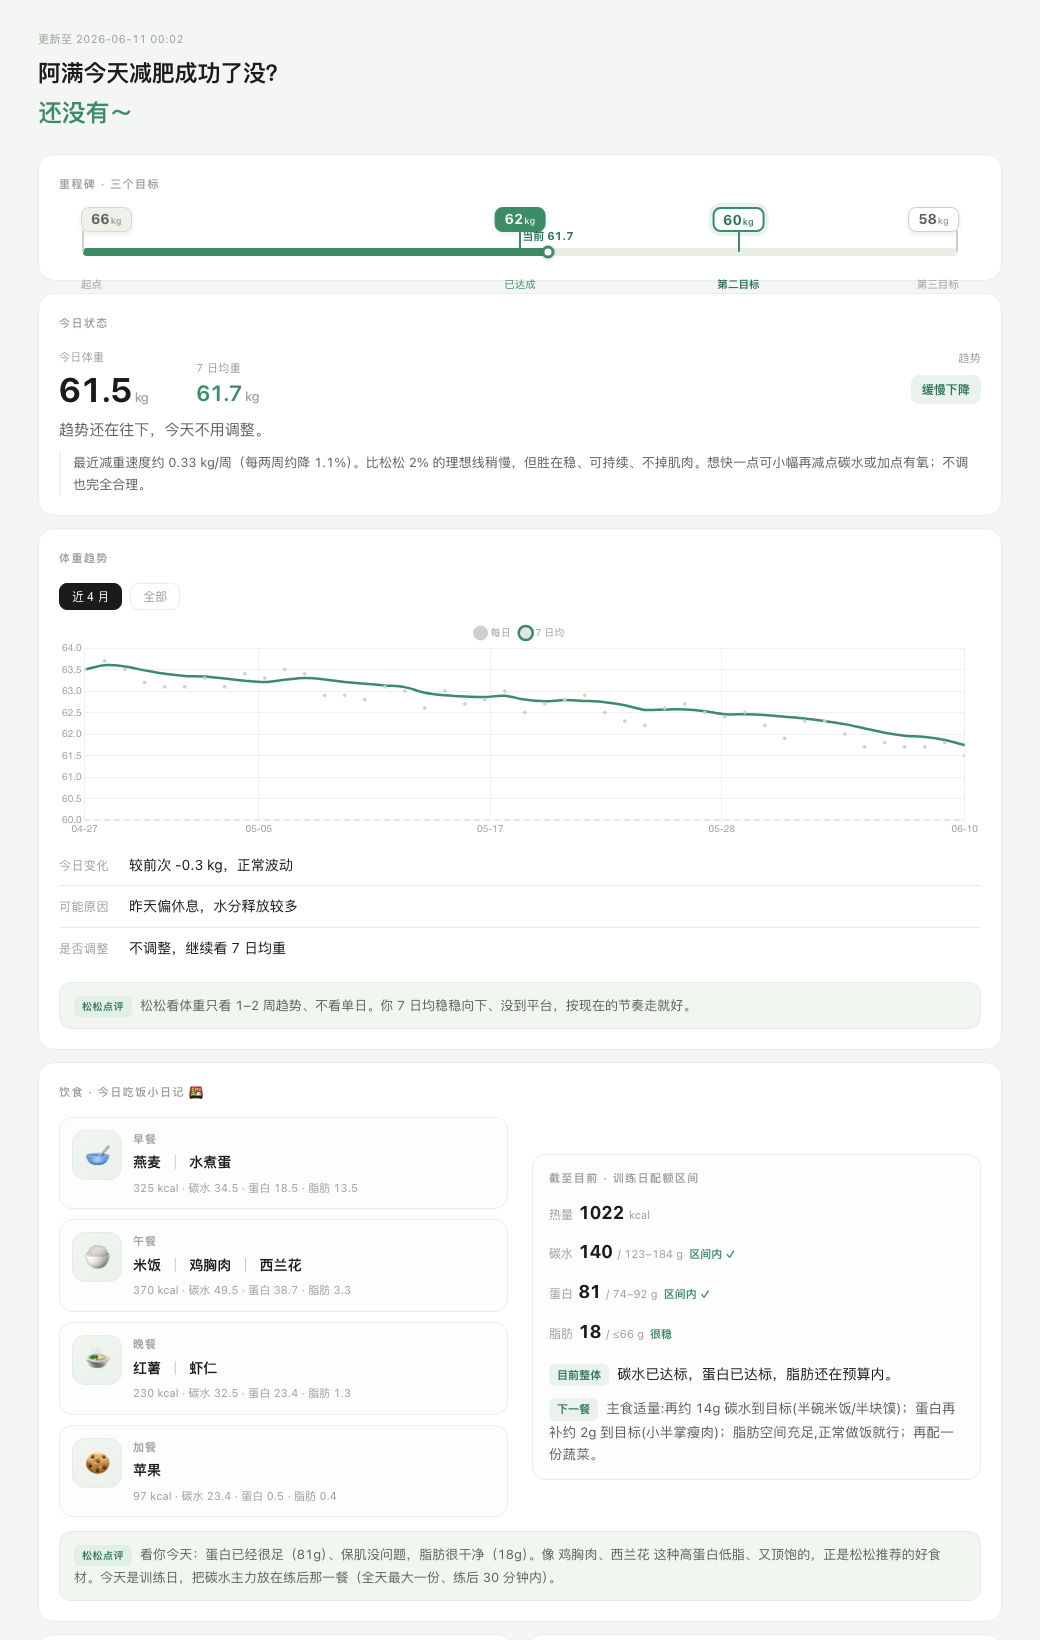
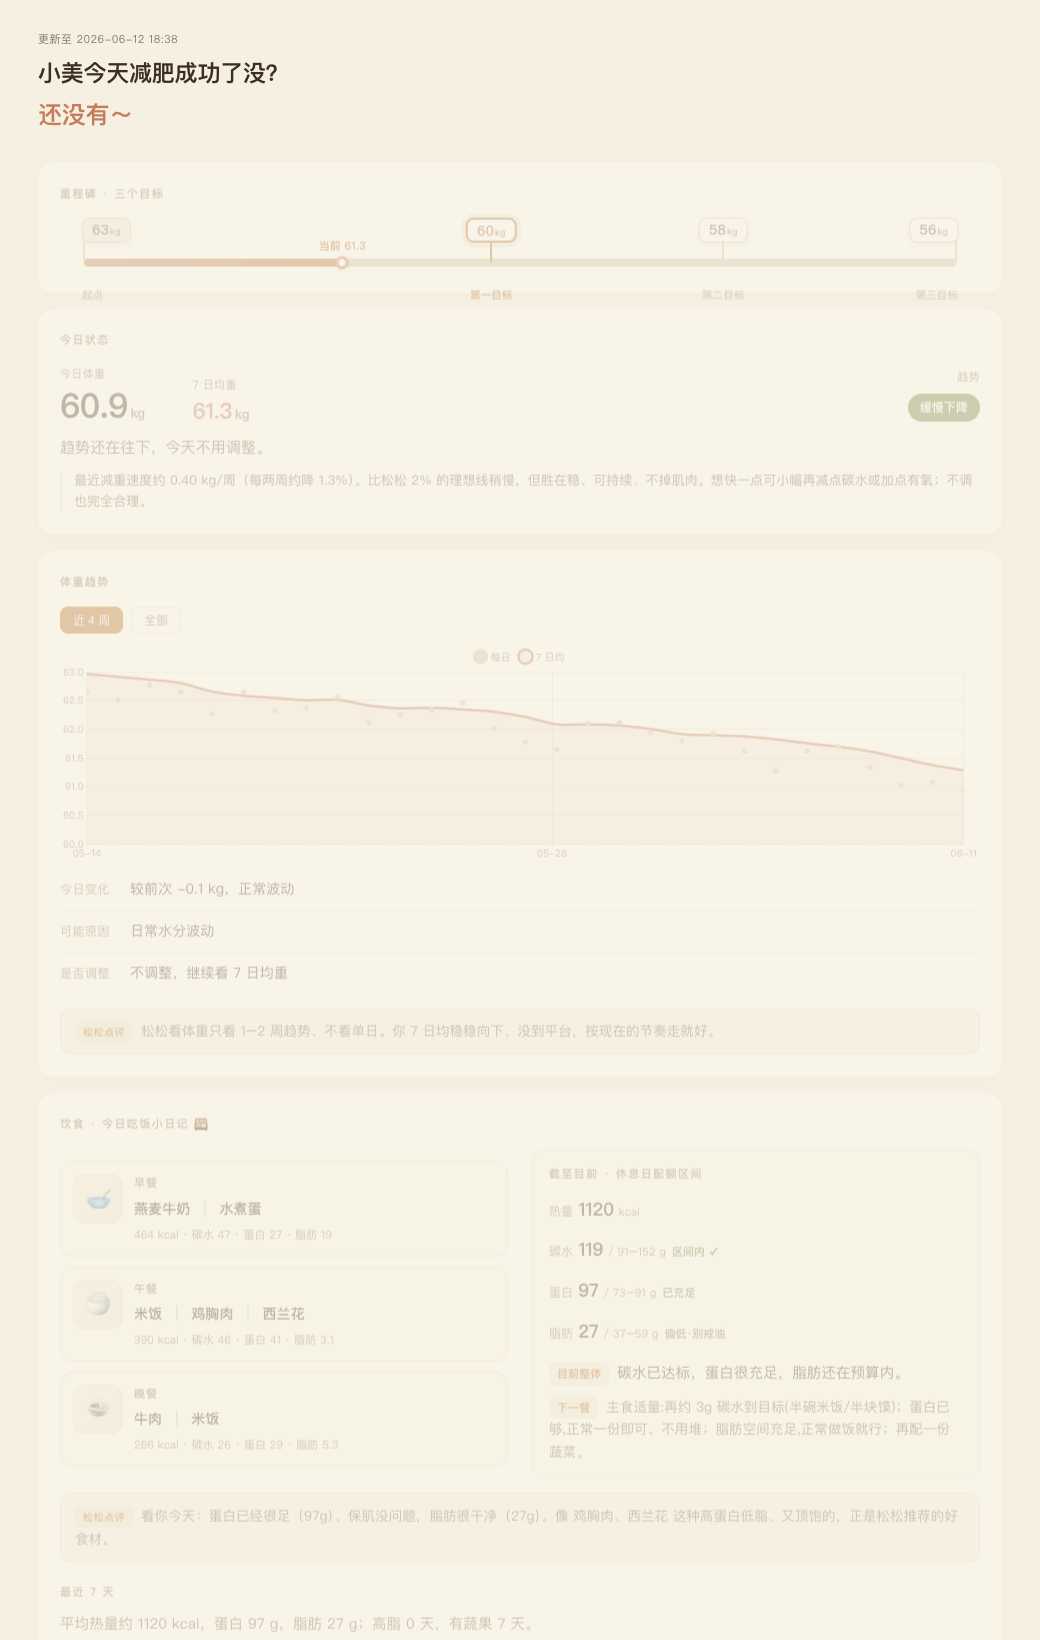
v1.4: 看板换装暖陪跑风(设计令牌/图表层级/reduced-motion/aria)

Changed region(s): [[0.0308, 0.0311, 0.9846, 0.9951]]

diff --git a/scripts/build_dashboard.py b/scripts/build_dashboard.py
@@ -273,7 +273,9 @@ def build_all():
         "weightDaily": [{"x": ms(d), "y": w} for (d, w, _, _) in series],
         "ma7": [{"x": ms(d), "y": ma7_at(series, d)} for (d, w, _, _) in series],
         "target": mstone["next_goal"],
-        "minx": ms(series[0][0]), "maxx": ms(L), "defaultLo": max(ms(series[0][0]), ms(L - datetime.timedelta(days=120))),
+        "minx": ms(series[0][0]), "maxx": ms(L),
+        "lo4w": max(ms(series[0][0]), ms(L - datetime.timedelta(days=28))),
+        "lo4m": max(ms(series[0][0]), ms(L - datetime.timedelta(days=120))),
         "kcalDaily": diet["kcalDaily"], "kcalAvg": diet["kcalAvg"],
         "proteinDaily": diet["proteinDaily"], "fatDaily": diet["fatDaily"], "showDietChart": diet["show_trend"],
         "bf": body["bf_series"], "fat": body["fat_series"], "lean": body["lean_series"], "showBody": body["has"]}
@@ -738,9 +740,9 @@ def render(D):
     show_trend, show_pattern = di["show_trend"], di["show_pattern"]
 
     # 数据不足时整段隐藏(数据够了自动回来)
-    trend_block = (c_sub("最近 7 天") + "<div class='body-t'>%s</div><div class='cv sm'><canvas id='cKcal'></canvas></div><div class='cv sm'><canvas id='cMacro'></canvas></div>" % esc(di["week_text"])) if show_trend else ""
+    trend_block = (c_sub("最近 7 天") + "<div class='body-t'>%s</div><div class='cv sm'><canvas id='cKcal' role='img' aria-label='最近7天每日热量柱状图与均值线'></canvas></div><div class='cv sm'><canvas id='cMacro' role='img' aria-label='最近7天蛋白与脂肪摄入折线图'></canvas></div>" % esc(di["week_text"])) if show_trend else ""
     pattern_block = (c_sub("最近 30 天") + "<div class='body-t'>%s</div>" % esc(di["pattern_text"])) if show_pattern else ""
-    body_chart = "<div class='cv sm'><canvas id='cBody'></canvas></div>" if bo["has"] else ""
+    body_chart = "<div class='cv sm'><canvas id='cBody' role='img' aria-label='身体成分趋势:瘦体重(虚线)与脂肪量(实线)双轴折线图'></canvas></div>" if bo["has"] else ""
 
     # —— 用统一组件拼装整页 ——
     head = "<div class='head'><div class='upd'>更新至 %s</div><h1>%s</h1><div class='answer'>%s</div></div>" % (
@@ -754,7 +756,7 @@ def render(D):
                  "<div class='row'><span class='k'>可能原因</span><span>%s</span></div>"
                  "<div class='row'><span class='k'>是否调整</span><span>%s</span></div></div>") % (
                  esc(tr["chg"]), esc(tr_cause), esc(tr["adj"]))
-    c_weight = c_card("<div class='range' id='range'></div><div class='cv'><canvas id='cWeight'></canvas></div>%s%s" % (
+    c_weight = c_card("<div class='range' id='range'></div><div class='cv'><canvas id='cWeight' role='img' aria-label='体重趋势:单日散点(弱化)与7日均线(主线)'></canvas></div>%s%s" % (
         weight_kv, c_coach(tr["coach"])), "体重趋势")
     c_diet = c_card("<div class='diet-grid'><div class='diet-left'>%s</div><div class='diet-right'>%s</div></div>%s%s%s" % (
         d_left, d_right, c_coach(d_coach), trend_block, pattern_block), "饮食 · 今日吃饭小日记 🍱")
@@ -782,24 +784,25 @@ def celebrate_html(c):
 
 CELEBRATE_TMPL = r"""
 <div id="celebrate" style="position:fixed;inset:0;z-index:9999;
- background:radial-gradient(120% 90% at 50% 18%, rgba(18,33,24,.92), rgba(8,12,10,.95));">
+ background:radial-gradient(120% 90% at 50% 18%, rgba(38,27,18,.92), rgba(14,10,7,.95));">
 <canvas id="fwc" style="position:fixed;inset:0;display:block;"></canvas>
 <div onclick="cbHide()" style="position:fixed;right:18px;top:16px;z-index:2;width:38px;height:38px;border-radius:50%;
  cursor:pointer;background:rgba(255,255,255,.14);color:#fff;border:1px solid rgba(255,255,255,.2);font-size:20px;line-height:36px;text-align:center;">✕</div>
 <div class="cbcard">
  <div style="font-size:54px;filter:drop-shadow(0 4px 12px rgba(0,0,0,.4))">🎉</div>
- <div style="font-size:12px;letter-spacing:.35em;color:#8FE0B6;font-weight:700;margin-top:12px;">里程碑达成</div>
- <div style="font-size:29px;font-weight:800;margin:10px 0 2px;">恭喜__NAME__！__VERB__ <span style="color:#7CE0AA">__GOAL__ kg</span></div>
- <div style="font-size:15px;color:#D7E5DC;line-height:1.75;margin-top:8px;">__LINE__</div>
+ <div style="font-size:12px;letter-spacing:.35em;color:#F4C690;font-weight:700;margin-top:12px;">里程碑达成</div>
+ <div style="font-size:29px;font-weight:800;margin:10px 0 2px;">恭喜__NAME__！__VERB__ <span style="color:#F0B27A">__GOAL__ kg</span></div>
+ <div style="font-size:15px;color:#EFE2D2;line-height:1.75;margin-top:8px;">__LINE__</div>
 </div>
 <div style="position:fixed;left:0;right:0;bottom:16px;text-align:center;color:rgba(255,255,255,.4);font-size:12px;">点 ✕ / 空白处 / 按 Esc 关闭，回到看板</div>
 </div>
 <style>
 .cbcard{position:fixed;left:50%;top:50%;transform:translate(-50%,-50%) scale(.85);opacity:0;text-align:center;color:#fff;
- background:rgba(22,33,26,.5);backdrop-filter:blur(10px);-webkit-backdrop-filter:blur(10px);border:1px solid rgba(255,255,255,.16);
+ background:rgba(40,29,20,.55);backdrop-filter:blur(10px);-webkit-backdrop-filter:blur(10px);border:1px solid rgba(255,255,255,.16);
  border-radius:26px;padding:34px 40px;box-shadow:0 24px 70px rgba(0,0,0,.45);max-width:88vw;
  animation:cbpop .7s cubic-bezier(.2,.9,.2,1.1) .2s forwards;}
 @keyframes cbpop{to{transform:translate(-50%,-50%) scale(1);opacity:1;}}
+@media(prefers-reduced-motion:reduce){.cbcard{animation:none;transform:translate(-50%,-50%);opacity:1;}}
 </style>
 <script>
 (function(){
@@ -818,7 +821,8 @@ CELEBRATE_TMPL = r"""
  window.cbHide=function(){ov.style.display='none';if(raf){cancelAnimationFrame(raf);raf=null;}};
  ov.addEventListener('click',function(e){if(e.target===ov||e.target===cv)cbHide();});
  addEventListener('keydown',function(e){if(e.key==='Escape')cbHide();});
- frame();go();
+ // 尊重系统"减弱动态效果":不放烟花,只静态展示祝贺卡
+ if(!matchMedia('(prefers-reduced-motion: reduce)').matches){frame();go();}
 })();
 </script>"""
 
@@ -827,15 +831,18 @@ TEMPLATE = r"""<!doctype html><html lang="zh-CN"><head><meta charset="utf-8">
 <script src="./assets/chart.umd.min.js"></script>
 <style>
 :root{
- /* 色板 */
- --bg:#F4F6F3;--card:#FFFFFF;--ink:#1A1C19;--t2:#5C6159;--t3:#9AA09A;--line:#EAEDE8;
- --accent:#3C8C66;--accent-d:#2E7355;--soft:#E9F2EC;--warn:#C8824E;
+ /* 色板 · 暖陪跑风(Nature Distilled,见 docs/DESIGN-SYSTEM.md) */
+ --bg:#F5F0E1;--card:#FFFCF5;--ink:#3D2E22;--t2:#6E5C4B;--t3:#8A7866;--line:#EDE3D0;
+ --accent:#C67B5C;--accent-d:#B5651D;--soft:#F3E8D8;--warn:#B5651D;
+ --pos:#6B7B3C;--pos-d:#57652C;--pos-soft:#EDF0DC;          /* 正向反馈:掉秤/达标/训练日 */
+ --sand:#D4C4A8;--praise:#FAE8D4;
+ --shadow:0 2px 12px rgba(91,64,38,.08);
  /* 状态色:日历格子 & 活动 chip —— 全部集中一处,杜绝撞色 */
- --cell:#FAFBFA;--cell-today:#FFFFFF;
- --chip-train:var(--soft);--chip-train-t:var(--accent-d);
+ --cell:#FBF6EA;--cell-today:#FFFCF5;
+ --chip-train:var(--pos-soft);--chip-train-t:var(--pos-d);
  --chip-cardio:#F3EBDF;--chip-cardio-t:#9A6E3C;
- --chip-rest:#EEF0ED;--chip-rest-t:var(--t3);
- --chip-other:#EDEFEC;--chip-other-t:var(--t2);
+ --chip-rest:#F1EADB;--chip-rest-t:var(--t3);
+ --chip-other:#EFE8D8;--chip-other-t:var(--t2);
  /* 间距刻度 / 圆角(组件统一引用) */
  --s2:8px;--s3:12px;--s4:16px;--s5:20px;--s6:24px;
  --r:16px;--r-sm:12px;
@@ -843,36 +850,38 @@ TEMPLATE = r"""<!doctype html><html lang="zh-CN"><head><meta charset="utf-8">
 *{box-sizing:border-box}
 html{-webkit-font-smoothing:antialiased;text-rendering:optimizeLegibility;}
 body{margin:0;background:var(--bg);color:var(--ink);
- font:14px/1.6 -apple-system,BlinkMacSystemFont,"SF Pro SC","SF Pro Text","PingFang SC","Microsoft YaHei",sans-serif;
+ font:15px/1.65 'Nunito Sans','PingFang SC','Hiragino Sans GB','Microsoft YaHei',sans-serif;
  font-variant-numeric:tabular-nums;font-feature-settings:"tnum" 1;letter-spacing:.005em;}
+h1,.stat .v,.head .answer,.sf-item b,.node .flag{font-family:'Varela Round','Nunito Sans','PingFang SC','Hiragino Sans GB',sans-serif;}
 .wrap{max-width:540px;margin:0 auto;padding:30px 18px 80px;}
 .head{margin-bottom:22px;}
 .head h1{font-size:19px;font-weight:650;letter-spacing:-.01em;margin:0 0 3px;}
 .head .sb{color:var(--t3);font-size:12px;} .head .up{color:var(--t3);font-size:11px;margin-top:3px;}
-.card{background:var(--card);border:1px solid var(--line);border-radius:var(--r);padding:20px;margin-bottom:12px;
+.card{background:var(--card);border-radius:var(--r);box-shadow:var(--shadow);padding:22px;margin-bottom:16px;
  animation:rise .5s cubic-bezier(.2,.7,.2,1) both;}
 @keyframes rise{from{opacity:0;transform:translateY(8px)}to{opacity:1}}
+@media(prefers-reduced-motion:reduce){.card{animation:none}}
 .head .upd{font-size:11px;color:var(--t3);letter-spacing:.04em;margin-bottom:7px;}
 .head h1{font-size:23px;font-weight:700;letter-spacing:-.01em;margin:0;}
 .head .answer{font-size:24px;font-weight:700;color:var(--accent);margin-top:2px;letter-spacing:-.01em;}
 .msbar{position:relative;margin:56px 24px 4px;}
-.track2{position:relative;height:8px;background:#E9EDE6;border-radius:8px;}
-.fill2{position:absolute;left:0;top:0;height:100%;background:var(--accent);border-radius:8px;}
-.here{position:absolute;top:4px;width:13px;height:13px;border-radius:50%;background:#fff;border:3px solid var(--accent);box-shadow:0 1px 4px rgba(0,0,0,.18);transform:translate(-50%,-50%);z-index:4;}
+.track2{position:relative;height:8px;background:var(--sand);border-radius:8px;}
+.fill2{position:absolute;left:0;top:0;height:100%;background:linear-gradient(90deg,var(--accent),var(--accent-d));border-radius:8px;}
+.here{position:absolute;top:4px;width:13px;height:13px;border-radius:50%;background:#fff;border:3px solid var(--accent);box-shadow:0 1px 4px rgba(91,64,38,.25);transform:translate(-50%,-50%);z-index:4;}
 .here b{position:absolute;bottom:12px;left:50%;transform:translateX(-50%);font-size:11px;font-weight:700;color:var(--accent-d);white-space:nowrap;}
 .node{position:absolute;top:4px;z-index:2;}
-.node .pole{position:absolute;left:0;top:-22px;width:2px;height:22px;background:#C9D0C7;transform:translateX(-50%);border-radius:2px;}
+.node .pole{position:absolute;left:0;top:-22px;width:2px;height:22px;background:var(--sand);transform:translateX(-50%);border-radius:2px;}
 .node .flag{position:absolute;left:0;top:-45px;transform:translateX(-50%);min-width:34px;height:25px;padding:0 9px;
- display:flex;align-items:baseline;justify-content:center;gap:1px;border-radius:8px;background:#fff;border:1.5px solid #C9D0C7;
- color:var(--t2);font-size:14px;font-weight:700;box-shadow:0 2px 5px rgba(40,46,30,.10);}
+ display:flex;align-items:baseline;justify-content:center;gap:1px;border-radius:8px;background:#fff;border:1.5px solid var(--sand);
+ color:var(--t2);font-size:14px;font-weight:700;box-shadow:0 2px 5px rgba(91,64,38,.10);}
 .node .flag i{font-style:normal;font-size:9px;font-weight:600;color:var(--t3);}
 .node .nl{position:absolute;top:24px;left:0;transform:translateX(-50%);font-size:10.5px;color:var(--t3);white-space:nowrap;}
-.node.done .flag{background:var(--accent);border-color:var(--accent);color:#fff;} .node.done .flag i{color:#dbe7df;}
-.node.done .pole{background:var(--accent);} .node.done .nl{color:var(--accent);}
-.node.now .flag{border-color:var(--accent);border-width:2px;color:var(--accent-d);box-shadow:0 0 0 4px var(--soft),0 2px 5px rgba(40,46,30,.10);}
-.node.now .flag i{color:var(--accent);} .node.now .pole{background:var(--accent);} .node.now .nl{color:var(--accent-d);font-weight:700;}
-.node.start .flag{background:#EEF0EA;border-color:#D6DBD2;color:var(--t2);} .node.start .flag i{color:var(--t3);}
-.node.start .pole{background:#CCD2C9;} .node.start .nl{color:var(--t3);}
+.node.done .flag{background:var(--pos);border-color:var(--pos);color:#fff;} .node.done .flag i{color:#E4E9D2;}
+.node.done .pole{background:var(--pos);} .node.done .nl{color:var(--pos-d);}
+.node.now .flag{border-color:var(--accent-d);border-width:2px;color:var(--accent-d);box-shadow:0 0 0 4px var(--soft),0 2px 5px rgba(91,64,38,.10);}
+.node.now .flag i{color:var(--accent-d);} .node.now .pole{background:var(--accent-d);} .node.now .nl{color:var(--accent-d);font-weight:700;}
+.node.start .flag{background:#F1EADB;border-color:var(--sand);color:var(--t2);} .node.start .flag i{color:var(--t3);}
+.node.start .pole{background:var(--sand);} .node.start .nl{color:var(--t3);}
 /* 首尾节点贴边对齐，避免旗子/文字飘到卡片外 */
 .node.start .flag,.node.start .nl{transform:translateX(0);left:-2px;}
 .node.end .flag,.node.end .nl{transform:translateX(-100%);left:2px;}
@@ -900,7 +909,7 @@ body{margin:0;background:var(--bg);color:var(--ink);
 .stat .v .u{font-size:13px;font-weight:500;color:var(--t3);margin-left:3px;}
 .stat.ma .v{font-size:22px;font-weight:600;color:var(--accent);}
 .stat.tr{margin-left:auto;text-align:right;}
-.tag{display:inline-block;background:var(--soft);color:var(--accent-d);border-radius:8px;padding:5px 11px;font-size:12px;font-weight:600;}
+.tag{display:inline-block;background:var(--pos);color:#fff;border-radius:99px;padding:4px 12px;font-size:12px;font-weight:600;}
 .one{font-size:15px;line-height:1.55;color:var(--t2);}
 /* 体重三行 */
 .kv{margin-top:14px;}
@@ -909,17 +918,19 @@ body{margin:0;background:var(--bg);color:var(--ink);
 .kv .k{color:var(--t3);font-size:12px;letter-spacing:.04em;width:56px;flex:none;}
 .cv{position:relative;height:220px;margin:6px 0 2px;} .cv.sm{height:150px;}
 .range{display:flex;gap:8px;margin-bottom:8px;}
-.range button{background:transparent;border:1px solid var(--line);color:var(--t3);border-radius:8px;padding:4px 12px;font-size:12px;cursor:pointer;}
-.range button.on{background:var(--ink);color:#fff;border-color:var(--ink);}
+.range button{background:transparent;border:1px solid var(--line);color:var(--t3);border-radius:8px;padding:4px 12px;font-size:12px;cursor:pointer;
+ transition:border-color .2s ease-out,color .2s ease-out;}
+.range button:hover{border-color:var(--accent);color:var(--accent-d);}
+.range button.on{background:var(--accent-d);color:#fff;border-color:var(--accent-d);}
 .sub{font-size:11px;color:var(--t3);font-weight:600;letter-spacing:.13em;text-transform:uppercase;margin:20px 0 10px;}
 /* 饮食日记 · 2×2 方格 */
 .diet-grid{display:grid;grid-template-columns:1fr 1fr;gap:24px;align-items:center;}
 @media(max-width:600px){.diet-grid{grid-template-columns:1fr;gap:16px;}}
 .diary{display:flex;flex-direction:column;gap:10px;}
-.meal{display:flex;gap:11px;align-items:flex-start;padding:12px;border:1px solid var(--line);border-radius:13px;background:#FCFDFC;}
+.meal{display:flex;gap:11px;align-items:flex-start;padding:12px;border:1px solid var(--line);border-radius:13px;background:#FDF9F0;}
 .mvis{flex:none;}
 .mtile{width:50px;height:50px;border-radius:13px;display:flex;align-items:center;justify-content:center;font-size:25px;
- background:linear-gradient(135deg,#F1F6EF,#E9F1EB);border:1px solid #E4ECE5;}
+ background:linear-gradient(135deg,#F8EFE0,#F3E7D4);border:1px solid #EBDFC9;}
 .mthumb{width:54px;height:54px;border-radius:13px;object-fit:cover;border:1px solid var(--line);
  filter:saturate(1.05) contrast(1.02);display:block;}
 .mbody{min-width:0;flex:1;}
@@ -928,28 +939,28 @@ body{margin:0;background:var(--bg);color:var(--ink);
 .mfi{font-size:14px;font-weight:600;}
 .sep{color:var(--t3);opacity:.55;margin:0 7px;font-weight:400;}
 .mnut{font-size:11px;color:var(--t3);margin-top:5px;}
-.meal.empty{background:#FAFBF9;} .meal.empty .mtile{opacity:.5;} .meal.empty .mbody{opacity:.6;}
+.meal.empty{background:#FBF6EA;} .meal.empty .mtile{opacity:.5;} .meal.empty .mbody{opacity:.6;}
 .mf-empty{font-size:14px;color:var(--t3);}
-.praise-card{background:linear-gradient(135deg,#FFF3DB,#FFE6CB);border:1px solid #F6D5B3;position:relative;overflow:hidden;}
+.praise-card{background:var(--praise);border:1.5px solid var(--accent);position:relative;overflow:hidden;}
 .praise-card .pz-deco{position:absolute;right:8px;top:-6px;font-size:50px;opacity:.22;transform:rotate(8deg);pointer-events:none;}
-.pz-h{position:relative;font-size:11.5px;font-weight:800;letter-spacing:.1em;color:#C2772E;}
-.pz-big{position:relative;font-size:16.5px;line-height:1.62;font-weight:650;color:#7C4A1E;margin-top:10px;}
+.pz-h{position:relative;font-size:11.5px;font-weight:800;letter-spacing:.1em;color:var(--accent-d);}
+.pz-big{position:relative;font-size:17px;line-height:1.62;font-weight:650;color:#6E4226;margin-top:10px;}
 /* 三大营养素达标 */
-.macro{margin-top:16px;border:1px solid var(--line);border-radius:12px;padding:13px 15px;background:#FCFDFC;}
+.macro{margin-top:16px;border:1px solid var(--line);border-radius:12px;padding:13px 15px;background:#FDF9F0;}
 .mttl{font-size:11px;color:var(--t3);letter-spacing:.06em;margin-bottom:9px;}
 .mr{display:grid;grid-template-columns:48px 1fr auto;align-items:baseline;gap:10px;padding:5px 0;}
 .mk{color:var(--t2);font-size:13px;}
 .mv{font-size:16px;font-weight:650;letter-spacing:-.01em;} .mv .sl{font-size:12px;font-weight:400;color:var(--t3);margin-left:5px;}
 .ms{font-size:12px;font-weight:600;justify-self:end;}
-.ms.ok{color:var(--accent);} .ms.low{color:var(--t3);} .ms.warn{color:var(--warn);}
+.ms.ok{color:var(--pos);} .ms.low{color:var(--t3);} .ms.warn{color:var(--warn);}
 .verdict{margin-top:13px;font-size:14.5px;line-height:1.65;color:var(--ink);}
 .advice{margin-top:10px;font-size:13px;line-height:1.6;color:var(--t2);padding-left:12px;border-left:2px solid var(--soft);}
-.note{padding:14px;background:#FAFBFA;border:1px dashed var(--line);border-radius:12px;font-size:12.5px;color:var(--t3);line-height:1.7;}
-.body-t{font-size:14px;line-height:1.7;color:var(--t2);}
-.coach{margin-top:14px;background:#F2F6F1;border:1px solid #E3EDE5;border-radius:12px;padding:11px 14px;font-size:13px;line-height:1.72;color:var(--t2);}
-.coach-tag{display:inline-block;font-size:10px;font-weight:700;color:var(--accent-d);background:#E1EFE6;padding:2px 8px;border-radius:6px;margin-right:8px;letter-spacing:.05em;}
+.note{padding:14px;background:#FBF6EA;border:1px dashed var(--sand);border-radius:12px;font-size:12.5px;color:var(--t3);line-height:1.7;}
+.body-t{font-size:14.5px;line-height:1.7;color:var(--t2);}
+.coach{margin-top:14px;background:#F7F0E3;border:1px solid #ECE0CA;border-radius:12px;padding:11px 14px;font-size:13.5px;line-height:1.72;color:var(--t2);}
+.coach-tag{display:inline-block;font-size:10px;font-weight:700;color:var(--accent-d);background:#F2E3CE;padding:2px 8px;border-radius:6px;margin-right:8px;letter-spacing:.05em;}
 /* 饮食 · 截至目前(横向铺平) */
-.diet-right{padding:14px 16px;background:#FCFDFC;border:1px solid var(--line);border-radius:13px;}
+.diet-right{padding:14px 16px;background:#FDF9F0;border:1px solid var(--line);border-radius:13px;}
 .sf-h{font-size:11px;color:var(--t3);font-weight:600;letter-spacing:.13em;text-transform:uppercase;margin:0 0 12px;}
 .sf-strip{display:flex;flex-direction:column;gap:11px;}
 .sf-item{display:flex;align-items:baseline;gap:5px;}
@@ -957,8 +968,8 @@ body{margin:0;background:var(--bg);color:var(--ink);
 .sf-item b{font-size:18px;font-weight:700;letter-spacing:-.01em;}
 .sf-item i{font-size:11px;color:var(--t3);font-style:normal;}
 .sf-item em{font-size:11px;font-weight:600;font-style:normal;margin-left:1px;}
-.sf-item em.ok{color:var(--accent);} .sf-item em.mut{color:var(--t3);} .sf-item em.warn{color:var(--warn);}
-.judge2{margin-top:15px;font-size:14px;line-height:1.7;color:var(--ink);}
+.sf-item em.ok{color:var(--pos);} .sf-item em.mut{color:var(--t3);} .sf-item em.warn{color:var(--warn);}
+.judge2{margin-top:15px;font-size:14.5px;line-height:1.7;color:var(--ink);}
 .advice2{margin-top:11px;font-size:13.5px;line-height:1.65;color:var(--t2);}
 .jt{display:inline-block;font-size:11px;font-weight:700;color:var(--accent-d);background:var(--soft);padding:2px 8px;border-radius:6px;margin-right:8px;}
 /* 日历 */
@@ -981,42 +992,46 @@ __BODY__
 </div>
 <script>
 const D=/*DATA*/;
+Chart.defaults.font.family="'Nunito Sans','PingFang SC','Hiragino Sans GB',sans-serif";
 function fd(m){return new Date(m).toISOString().slice(5,10);}
 // 悬浮提示标题统一显示成"月-日"(否则会弹出原始时间戳那串大数字)
 Chart.defaults.plugins.tooltip.callbacks=Chart.defaults.plugins.tooltip.callbacks||{};
 Chart.defaults.plugins.tooltip.callbacks.title=function(its){return (its&&its.length)?fd(its[0].parsed.x):'';};
-const GRID='#EEF1EC',TICK='#9AA09A';
+const GRID='#EBE2CE',TICK='#8A7866';
 const AX={type:'linear',ticks:{color:TICK,maxTicksLimit:6,font:{size:10},callback:v=>fd(v)},grid:{color:GRID,drawTicks:false},border:{display:false}};
 function yax(o){return Object.assign({ticks:{color:TICK,font:{size:10}},grid:{color:GRID,drawTicks:false},border:{display:false}},o||{});}
 const LEG={labels:{color:TICK,boxWidth:10,boxHeight:10,font:{size:10},usePointStyle:true,pointStyle:'circle'}};
 let wc;
 function drawWeight(lo,hi){
   const cfg={data:{datasets:[
-    {type:'line',label:'目标',data:[{x:D.minx,y:D.target},{x:D.maxx,y:D.target}],borderColor:'#CBD2C9',borderDash:[5,5],borderWidth:1,pointRadius:0},
-    {type:'scatter',label:'每日',data:D.weightDaily,pointRadius:1.4,pointBackgroundColor:'#CBD2C9',borderColor:'#CBD2C9'},
-    {type:'line',label:'7 日均',data:D.ma7,borderColor:'#3C8C66',borderWidth:2.5,pointRadius:0,tension:.3},
+    {type:'line',label:'目标',data:[{x:D.minx,y:D.target},{x:D.maxx,y:D.target}],borderColor:'#CBB89A',borderDash:[5,5],borderWidth:1,pointRadius:0},
+    {type:'scatter',label:'每日',data:D.weightDaily,pointRadius:2.2,pointBackgroundColor:'#D4C4A8',borderColor:'#D4C4A8'},
+    {type:'line',label:'7 日均',data:D.ma7,borderColor:'#C67B5C',borderWidth:2.5,pointRadius:0,tension:.3,fill:true,backgroundColor:'rgba(198,123,92,0.12)'},
   ]},options:{maintainAspectRatio:false,plugins:{legend:Object.assign({},LEG,{labels:Object.assign({},LEG.labels,{filter:i=>i.text!=='目标'})})},
     scales:{x:Object.assign({},AX,{min:lo,max:hi}),y:yax({})}}};
   if(wc)wc.destroy(); wc=new Chart(document.getElementById('cWeight'),cfg);
 }
-drawWeight(D.defaultLo,D.maxx);
+// 档位:近4周(默认)/近4月/全部;数据不够长的档位与「全部」重合,自动隐藏
+const ranges=[['近 4 周',D.lo4w],['近 4 月',D.lo4m]].filter(r=>r[1]>D.minx);
+ranges.push(['全部',D.minx]);
+drawWeight(ranges[0][1],D.maxx);
 const rd=document.getElementById('range');
-[['近 4 月',D.defaultLo],['全部',D.minx]].forEach(([t,lo],i)=>{const b=document.createElement('button');b.textContent=t;if(i===0)b.classList.add('on');
+ranges.forEach(([t,lo],i)=>{const b=document.createElement('button');b.textContent=t;if(i===0)b.classList.add('on');
   b.onclick=()=>{[...rd.children].forEach(c=>c.classList.remove('on'));b.classList.add('on');drawWeight(lo,D.maxx);};rd.appendChild(b);});
 if(D.showDietChart && D.kcalDaily.length){
   new Chart(document.getElementById('cKcal'),{data:{datasets:[
-    {type:'bar',label:'每日热量',data:D.kcalDaily,backgroundColor:'#D7E5DC',borderRadius:4},
-    D.kcalAvg?{type:'line',label:'均值',data:[{x:D.kcalDaily[0].x,y:D.kcalAvg},{x:D.kcalDaily[D.kcalDaily.length-1].x,y:D.kcalAvg}],borderColor:'#3C8C66',borderWidth:1.5,pointRadius:0}:null
+    {type:'bar',label:'每日热量',data:D.kcalDaily,backgroundColor:'#EAD9C0',borderRadius:4},
+    D.kcalAvg?{type:'line',label:'均值',data:[{x:D.kcalDaily[0].x,y:D.kcalAvg},{x:D.kcalDaily[D.kcalDaily.length-1].x,y:D.kcalAvg}],borderColor:'#C67B5C',borderWidth:1.5,pointRadius:0}:null
   ].filter(Boolean)},options:{maintainAspectRatio:false,plugins:{legend:LEG},scales:{x:AX,y:yax({})}}});
   new Chart(document.getElementById('cMacro'),{data:{datasets:[
-    {type:'line',label:'蛋白 g',data:D.proteinDaily,borderColor:'#3C8C66',borderWidth:2,pointRadius:2,tension:.3},
-    {type:'line',label:'脂肪 g',data:D.fatDaily,borderColor:'#C8824E',borderWidth:2,pointRadius:2,tension:.3},
+    {type:'line',label:'蛋白 g',data:D.proteinDaily,borderColor:'#6B7B3C',borderWidth:2,pointRadius:2,tension:.3},
+    {type:'line',label:'脂肪 g',data:D.fatDaily,borderColor:'#B5651D',borderWidth:2,pointRadius:2,tension:.3,borderDash:[6,4]},
   ]},options:{maintainAspectRatio:false,plugins:{legend:LEG},scales:{x:AX,y:yax({})}}});
 }
 if(D.showBody && D.fat.length){
   new Chart(document.getElementById('cBody'),{data:{datasets:[
-    {type:'line',label:'瘦体重 kg',data:D.lean,borderColor:'#3C8C66',borderWidth:2,pointRadius:0,yAxisID:'y'},
-    {type:'line',label:'脂肪量 kg',data:D.fat,borderColor:'#C8824E',borderWidth:2,pointRadius:1.4,pointBackgroundColor:'#C8824E',yAxisID:'y1'},
+    {type:'line',label:'瘦体重 kg',data:D.lean,borderColor:'#6B7B3C',borderWidth:2.5,pointRadius:0,yAxisID:'y',borderDash:[6,4],tension:.3},
+    {type:'line',label:'脂肪量 kg',data:D.fat,borderColor:'#B5651D',borderWidth:2.5,pointRadius:1.6,pointBackgroundColor:'#B5651D',yAxisID:'y1',tension:.3},
   ]},options:{maintainAspectRatio:false,plugins:{legend:LEG},scales:{x:AX,
     y:yax({position:'left',grace:'12%'}),
     y1:yax({position:'right',grace:'12%',grid:{drawOnChartArea:false}})}}});

diff --git a/docs/DESIGN-SYSTEM.md b/docs/DESIGN-SYSTEM.md
@@ -1,0 +1,80 @@
+# 掉秤搭子 cut-buddy · 看板设计方案
+
+> 设计方向:**暖陪跑风**(Nature Distilled)——暖土色系、自然质感、柔和阴影。
+> 由 ui-ux-pro-max 设计引擎生成,经人工调整:风格从引擎原始推荐的 Vibrant & Block-based 改为 Nature Distilled(更贴合"不焦虑陪跑"的产品调性),字体从 Lora/Raleway 改为 Varela Round/Nunito Sans(更圆润友好)。
+
+---
+
+## 1. 设计原则(从 PRD 调性翻译而来)
+
+1. **温暖不刺激**:暖土色打底,高饱和色只用于强调(趋势、CTA),永不用红色警示体重数据
+2. **看趋势的视觉层级**:7 日均线永远比单日散点更醒目——视觉上就在告诉用户"看这条,别看那个点"
+3. **正反馈醒目**:夸夸卡片、里程碑是看板的情绪核心,给最暖的色和最大的留白
+4. **庆祝可关**:烟花等大动效必须响应 `prefers-reduced-motion`
+
+## 2. 色彩令牌
+
+| 令牌 | 色值 | 用途 |
+|---|---|---|
+| `--terracotta` | `#C67B5C` | 主色:标题强调、图表主线、进度条 |
+| `--warm-clay` | `#B5651D` | 主色加深:hover、当前里程碑 |
+| `--sand-beige` | `#D4C4A8` | 次要元素:分隔、未达成里程碑、图表网格 |
+| `--soft-cream` | `#F5F0E1` | 页面背景 |
+| `--card-bg` | `#FFFCF5` | 卡片背景(比背景略亮,形成柔和层次) |
+| `--olive-green` | `#6B7B3C` | 正向反馈:掉秤趋势、达标徽章、训练日 |
+| `--text-main` | `#3D2E22` | 正文(深咖,对 cream 背景对比度 ≈ 10:1) |
+| `--text-muted` | `#6E5C4B` | 次要文字(对比度 ≈ 5.2:1,达标) |
+| `--praise-bg` | `#FAE8D4` | 夸夸卡片专属暖底 |
+
+**禁用**:纯黑 `#000`、警示红(体重涨了用中性灰棕表述,不用红色制造焦虑)、AI 紫粉渐变。
+
+## 3. 字体
+
+| 用途 | 字体 | 回退链 |
+|---|---|---|
+| 标题/数字 | Varela Round | `'Varela Round', 'PingFang SC', 'Hiragino Sans GB', sans-serif` |
+| 正文 | Nunito Sans | `'Nunito Sans', 'PingFang SC', 'Hiragino Sans GB', sans-serif` |
+
+- ⚠️ **离线约束**(PRD 第 8 节):正式看板要么把 woff2 字体文件随看板本地存放,要么直接用回退链(系统中文字体本身够圆润)。**不要依赖 Google Fonts CDN**。Varela Round/Nunito Sans 只覆盖拉丁字符与数字——中文自动走 PingFang,数字(体重值)走圆体,效果协调。
+- 字号:正文 ≥16px;大数字(今日体重)32-40px;行高 1.6
+
+## 4. 布局与间距
+
+- 卡片圆角 `16px`,内边距 `20-24px`,卡片间距 `16px`
+- 柔和阴影:`0 2px 12px rgba(91, 64, 38, 0.08)`(暖棕色调阴影,不用冷灰)
+- 响应式:375px 单列 / 768px 两列 / 1024px+ 三列网格,趋势图始终通栏
+- 最大宽度 `max-width: 1080px` 居中
+
+## 5. 图表规范(Chart.js)
+
+| 项 | 规范 |
+|---|---|
+| 体重趋势 | 单日散点:sand-beige 小点(弱化);7 日均线:terracotta 实线 2.5px(主角) |
+| 区域填充 | 均线下方 terracotta 12% 透明度 |
+| 配额对比 | 横向条:实际摄入 terracotta,配额区间用 sand-beige 底带;达标徽章 olive-green |
+| 身体成分 | 脂肪量 warm-clay 线、瘦体重 olive-green 线,加图例 |
+| 无障碍 | 双线必须线型区分(实线/虚线),不能只靠颜色;canvas 配 aria-label |
+
+## 6. 动效
+
+- 微交互 200ms,`ease-out` 进 `ease-in` 出;hover 用颜色/阴影变化,**不用 scale**(防布局抖动)
+- 每屏最多 1-2 个动效元素;数字变化可做 600ms 计数动画
+- 烟花彩蛋:`@media (prefers-reduced-motion: reduce)` 下降级为静态祝贺卡片
+- 夸夸卡片可做一次性轻微进场(淡入上移 8px),不循环
+
+## 7. 反面清单(这个产品尤其要避开)
+
+- ❌ 红色/警告色表达体重上涨(制造焦虑,违背产品理念)
+- ❌ emoji 当图标(用内联 SVG;文案里的 emoji 可以保留)
+- ❌ 死板的纯数据表格风(PRD 反面模式:Static design / No gamification)
+- ❌ 深色模式优先(暖陪跑风以浅暖底为主;深色模式可作后续选项)
+- ❌ 可点元素没有 cursor-pointer / 无 hover 反馈
+
+## 8. 交付前检查清单
+
+- [ ] 文字对比度 ≥4.5:1(本方案 text-main/muted 均达标)
+- [ ] prefers-reduced-motion 已处理(尤其烟花)
+- [ ] 375/768/1024/1440 四档无横向滚动
+- [ ] 图标统一内联 SVG(Lucide 风格,24×24 viewBox)
+- [ ] 字体离线可用(本地 woff2 或回退链)
+- [ ] 图表色盲友好(线型+图例区分)

diff --git a/CHANGELOG.md b/CHANGELOG.md
@@ -2,6 +2,15 @@
 
 > 格式：版本号 · 日期 · 变更内容。最新在最上面。
 
+## v1.4 · 2026-06-12 · 看板换装「暖陪跑风」
+
+按设计规范(`docs/DESIGN-SYSTEM.md`,Nature Distilled 暖陪跑风)整体重做看板视觉,**只动皮肤、不动架构**(还是单文件 HTML + 内嵌 Chart.js + 记录后自动刷新):
+- **暖土色系**:陶土橘为主色(标题强调/7 日均线/进度条),橄榄绿专管正反馈(掉秤标签/达标/训练日),奶油底 + 暖棕阴影替代冷灰描边;全程无红色警示(体重涨用中性表述,不制造焦虑)。
+- **图表层级讲"看趋势"**:单日散点弱化成沙色小点,7 日均线加粗为陶土主线 + 12% 区域填充——视觉上就在说"看这条,别看那个点";双线图(蛋白/脂肪、瘦体重/脂肪量)加实线/虚线区分,色盲也能读。
+- **无障碍补课**:烟花彩蛋与卡片进场动画响应系统"减弱动态效果"(reduced-motion 下烟花降级为静态祝贺卡);四张图表 canvas 补 aria-label;按钮加 hover 反馈。
+- **夸夸卡**换专属暖底 + 陶土描边;庆祝全屏层从冷绿夜空换成暖棕夜空。
+- 设计令牌、反面清单(禁红色/禁 AI 紫粉渐变等)与交付检查项归档于 `docs/DESIGN-SYSTEM.md`;README 预览图同步更新。
+
 ## v1.3 · 2026-06-11 · 大体重 BMI 分档 + 有氧/1RM 两个小算盘
 
 - **大体重起始配额下调(D13,减脂期自动)**:BMI>28 碳水起始上限压到 男2.5/女2.1 g/kg,BMI>32 压到 男2.0/女1.7(下限=上限−0.3;该档休息日碳水 −0.3 而非 −0.5,贴合女版配额表大体重行)。按 profile 身高自动分档,减下来跨档自动回升;无身高/增肌/维持不受影响。依据:松松"大体重低配额"(单位体重基代 1.3–1.4 倍差、活动消耗 1.5 倍差)。诚实标注:女 BMI>32 档比女版配额表训练日行(1.8–2.1)略保守,符合松松"算出来偏低是故意的"原则,饿得受不了可按表上调——已写进 references。

diff --git a/SKILL.md b/SKILL.md
@@ -52,6 +52,7 @@ description: >-
 1. **解析**用户的话为 payload(schema 见下)。日期默认今天;"昨天"等换算。
 2. **只记已发生、不记计划**:用户说"等会要去练X/打算吃Y"——**别记**(运动尤其常临时改),只陪聊;等他说"练完了/吃完了"再记。
 3. 饮食营养**营养表优先**:用户给了每100g/每份营养(含千焦)就放 `per100`;只报名字+数量没给营养 → 让脚本查食物库;查不到则按 `references/松松食物营养率.md` 粗估、`source` 标 `"估算"`;混合菜(如"土豆烧排骨")**拆成原料**分条记。
+   **估算铁律:粗估前必须实际打开营养率表取比率,并在回复里写明所用比率与假设(如"生虾蛋白率15%、带壳出肉率50%"),禁止凭通用记忆写 per100。** 带壳海鲜出肉率取 45–55% 中值。(教训:曾凭记忆把生虾蛋白率写成 19%,松松口径是 15%,全天蛋白虚高 20g,被用户发现。)
 4. 写 payload 到临时文件,运行 `python3 scripts/tracker.py log --file /tmp/cb.json`(自动存档、算营养、把**带营养表的新食物存进个人食物库**、刷新看板,回传当天 `today`)。
 5. **食物入库要告知用户**:当用户给了营养、食物被存进个人常吃库时,回一句"已记到你的常吃食物库,下次直接报名字就行~"。
 6. 读回传 JSON(`intake/quota(含 carb_low/high、protein_low/high)/vs_quota/ma7/this_week_avg/rate_kg_per_week/fat_target_g` 等),用**真实数字**回复。